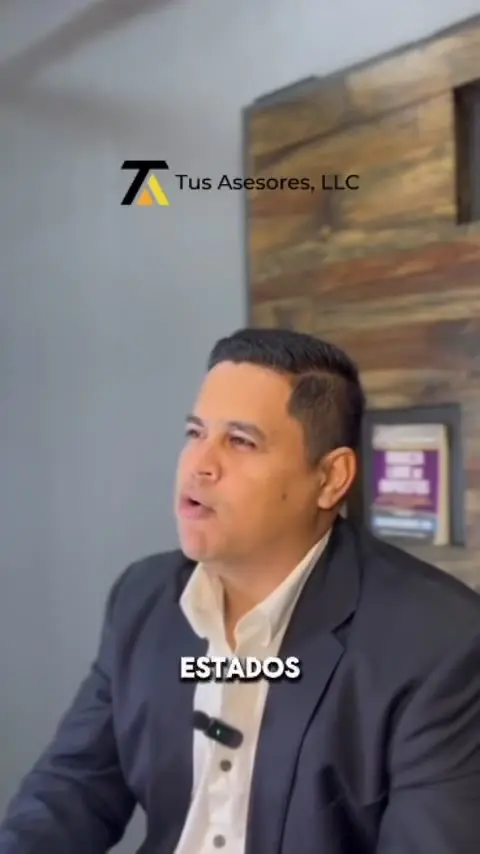
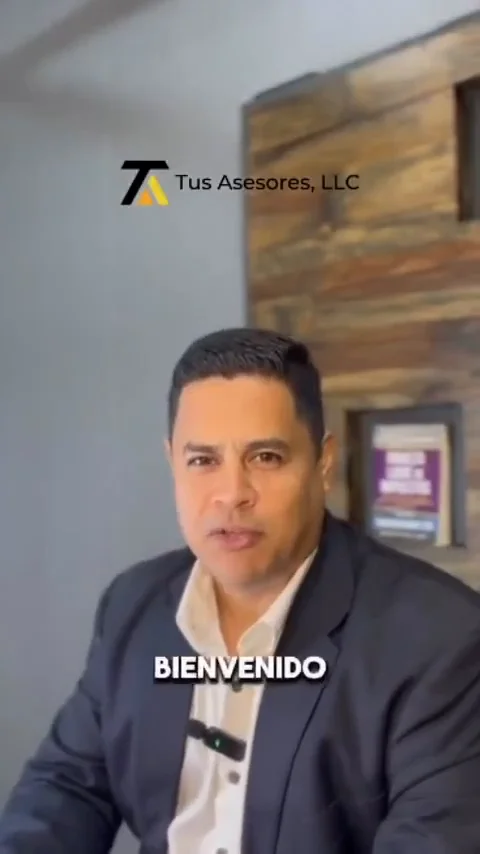
Portada del video: Ricardo de frente (Bienvenido)
Claude-Session: https://claude.ai/code/session_014ipd9f5Ert7eiG2kHQTitq

diff --git a/index.html b/index.html
@@ -70,7 +70,7 @@
             </div>
             <div class="h-video">
                 <div class="h-video-marco">
-                    <video controls playsinline preload="none" poster="/img/home/ricardo-video-poster.webp" aria-label="Video de presentación de Tus Asesores LLC">
+                    <video controls playsinline preload="none" poster="/img/home/ricardo-video-poster.webp?v=2" aria-label="Video de presentación de Tus Asesores LLC">
                         <source src="/mp4/ricardo-presentacion.mp4?v=2" type="video/mp4">
                     </video>
                 </div>
